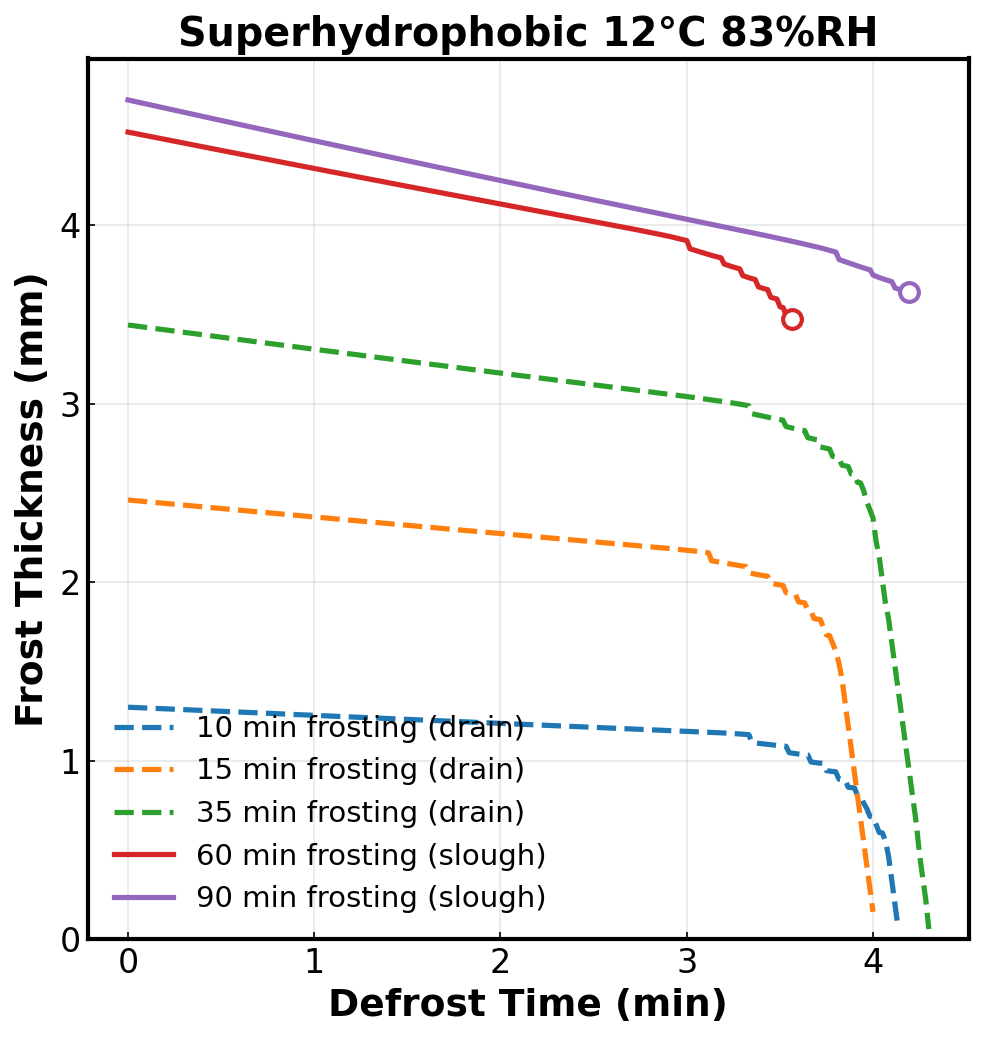
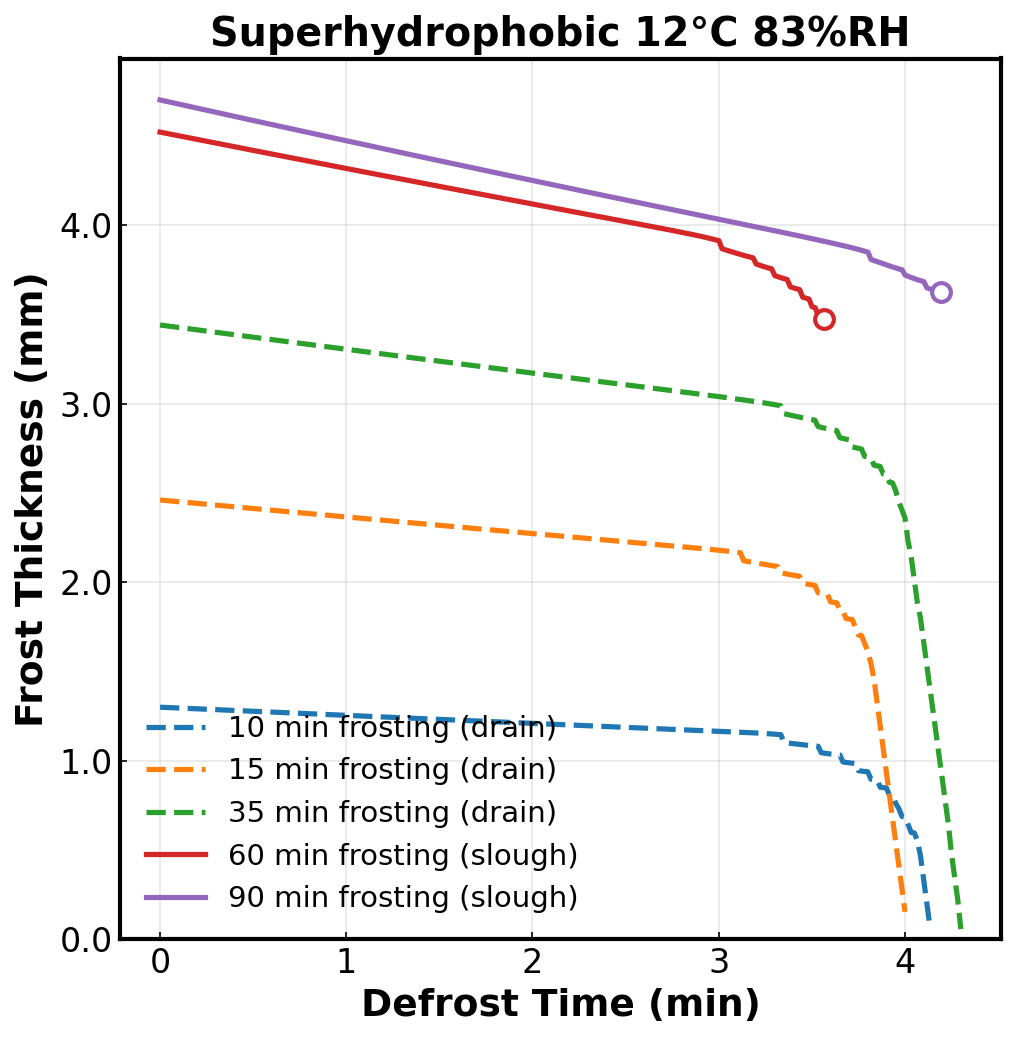
Uniform one-decimal y ticks so per-condition figures share dimensions
The superhydrophobic 83%RH thickness figure rendered integer y ticks,
making its tight bounding box narrower than the other figures. Force a
'%.1f' y-tick formatter in the per-condition plots; all ten now render
at identical pixel dimensions.

diff --git a/plot_defrost_thickness_comparison.py b/plot_defrost_thickness_comparison.py
@@ -426,6 +426,10 @@ def _plot_single_condition(label, cases, quantity, ylabel,
         spine.set_linewidth(2)
     ax.set_box_aspect(1)
     ax.set_ylim(bottom=0)
+    # Uniform one-decimal y ticks so all per-condition figures render with
+    # identical dimensions (tick label width affects the tight bounding box)
+    from matplotlib.ticker import FormatStrFormatter
+    ax.yaxis.set_major_formatter(FormatStrFormatter('%.1f'))
 
     ax.legend(fontsize=14, frameon=False, loc='best')
 
